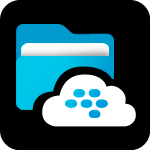
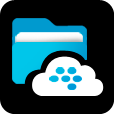
some images updated to 114x114
instead of 150x150
and new image for ActiveFrame Layout

diff --git a/assets/rooms/FoldersItem.qml b/assets/rooms/FoldersItem.qml
@@ -48,14 +48,14 @@ Container {
             id: itemBackground
             imageSource: "asset:///images/white_photo.png"
             preferredWidth: 768
-            preferredHeight: 173
+            preferredHeight: 137
         }
         Container {
             id: highlightContainer
             background: Color.create("#75b5d3")
             opacity: 0.0
             preferredWidth: 760
-            preferredHeight: 168
+            preferredHeight: 132
             horizontalAlignment: HorizontalAlignment.Center
         }
 
@@ -68,9 +68,9 @@ Container {
             horizontalAlignment: HorizontalAlignment.Fill
             verticalAlignment: VerticalAlignment.Center
             ImageView {
-                preferredWidth: 150
-                preferredHeight: 150
-                minWidth: 150
+                preferredWidth: 114
+                preferredHeight: 114
+                minWidth: 114
                 // datamodel knows the icon source
                 imageSource: ListItemData.icon
                 layoutProperties: StackLayoutProperties {  

diff --git a/assets/rooms/FilesItem.qml b/assets/rooms/FilesItem.qml
@@ -48,14 +48,14 @@ Container {
             id: itemBackground
             imageSource: "asset:///images/white_photo.png"
             preferredWidth: 768
-            preferredHeight: 173
+            preferredHeight: 137
         }
         Container {
             id: highlightContainer
             background: Color.create("#75b5d3")
             opacity: 0.0
             preferredWidth: 760
-            preferredHeight: 168
+            preferredHeight: 132
             horizontalAlignment: HorizontalAlignment.Center
         }
 
@@ -68,9 +68,9 @@ Container {
             horizontalAlignment: HorizontalAlignment.Fill
             verticalAlignment: VerticalAlignment.Center
             ImageView {
-                preferredWidth: 150
-                preferredHeight: 150
-                minWidth: 150
+                preferredWidth: 114
+                preferredHeight: 114
+                minWidth: 114
                 // datamodel knows the icon source
                 imageSource: ListItemData.icon
                 layoutProperties: StackLayoutProperties {

diff --git a/assets/rooms/RoomsItem.qml b/assets/rooms/RoomsItem.qml
@@ -48,14 +48,14 @@ Container {
             id: itemBackground
             imageSource: "asset:///images/white_photo.png"
             preferredWidth: 768
-            preferredHeight: 173
+            preferredHeight: 137
         }
         Container {
             id: highlightContainer
             background: Color.create("#75b5d3")
             opacity: 0.0
             preferredWidth: 760
-            preferredHeight: 168
+            preferredHeight: 132
             horizontalAlignment: HorizontalAlignment.Center
         }
 
@@ -68,9 +68,9 @@ Container {
             horizontalAlignment: HorizontalAlignment.Fill
             verticalAlignment: VerticalAlignment.Center
             ImageView {
-                preferredWidth: 150
-                preferredHeight: 150
-                minWidth: 150
+                preferredWidth: 114
+                preferredHeight: 114
+                minWidth: 114
                 // datamodel knows the icon source
                 imageSource: ListItemData.icon
                 layoutProperties: StackLayoutProperties {

diff --git a/assets/rooms/SubRoomsItem.qml b/assets/rooms/SubRoomsItem.qml
@@ -48,14 +48,14 @@ Container {
             id: itemBackground
             imageSource: "asset:///images/white_photo.png"
             preferredWidth: 768
-            preferredHeight: 173
+            preferredHeight: 137
         }
         Container {
             id: highlightContainer
             background: Color.create("#75b5d3")
             opacity: 0.0
             preferredWidth: 760
-            preferredHeight: 168
+            preferredHeight: 132
             horizontalAlignment: HorizontalAlignment.Center
         }
 
@@ -68,9 +68,9 @@ Container {
             horizontalAlignment: HorizontalAlignment.Fill
             verticalAlignment: VerticalAlignment.Center
             ImageView {
-                preferredWidth: 150
-                preferredHeight: 150
-                minWidth: 150
+                preferredWidth: 114
+                preferredHeight: 114
+                minWidth: 114
                 // datamodel knows the icon source
                 imageSource: ListItemData.icon
                 layoutProperties: StackLayoutProperties {

diff --git a/assets/users/UsersItem.qml b/assets/users/UsersItem.qml
@@ -48,14 +48,14 @@ Container {
             id: itemBackground
             imageSource: "asset:///images/white_photo.png"
             preferredWidth: 768
-            preferredHeight: 173
+            preferredHeight: 137
         }
         Container {
             id: highlightContainer
             background: Color.create("#75b5d3")
             opacity: 0.0
             preferredWidth: 760
-            preferredHeight: 168
+            preferredHeight: 132
             horizontalAlignment: HorizontalAlignment.Center
         }
 
@@ -69,8 +69,8 @@ Container {
             verticalAlignment: VerticalAlignment.Center
             ImageView {
                 id: itemIcon
-                preferredWidth: 150
-                preferredHeight: 150
+                preferredWidth: 114
+                preferredHeight: 114
                 // datamodel knows the icon source
                 imageSource: ListItemData.displayIcon 
                 layoutProperties: StackLayoutProperties {
